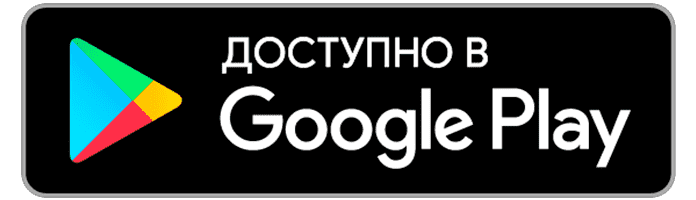
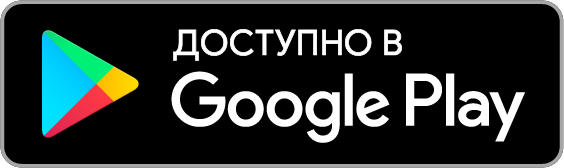
Лэндос

Changed region(s): [[0.0, 0.0, 1.0, 1.0], [0.3014, 0.4167, 0.9344, 0.8631], [0.3014, 0.1488, 0.7234, 0.3869]]

diff --git a/resources/assets/js/components/landing/index/screen-1.vue b/resources/assets/js/components/landing/index/screen-1.vue
@@ -145,7 +145,7 @@
         float: left;
         width: 15.1vw;
         height: 4.5vw;
-        background-image: url("../../../../../img/landing/screen1/google_play2.png");
+        background-image: url("../../../../../img/landing/screen1/google_play.png");
         background-size: cover;
         margin-top: 1vw;
     }
